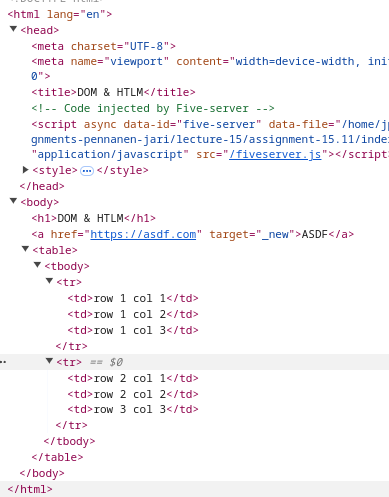
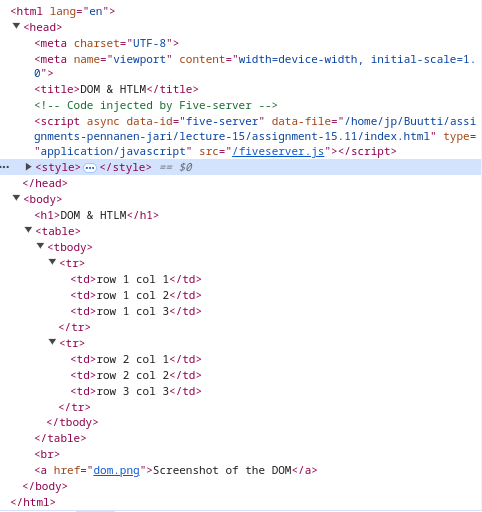
Refine assignment 15.11

Changed region(s): [[0.0, 0.0, 1.0, 1.0]]

diff --git a/lecture-15/assignment-15.11/index.html b/lecture-15/assignment-15.11/index.html
@@ -3,7 +3,6 @@ Create a new HTML page that corresponds to the attached DOM image.
 Add a table to your page with three columns and two rows in it. 
 Then update the DOM tree model to reflect the updated page. (Draw it with a pen to a paper.) 
 -->
-<!-- NOTE: See the attached screenshot of the DOM -->
 <!DOCTYPE html>
 <html lang="en">
 <head>
@@ -13,7 +12,6 @@ Then update the DOM tree model to reflect the updated page. (Draw it with a pen 
 </head>
 <body>
   <h1>DOM & HTLM</h1>
-  <a href="https://asdf.com" target="_new">ASDF</a>
   <table>
     <tr>
       <td>row 1 col 1</td>
@@ -26,5 +24,6 @@ Then update the DOM tree model to reflect the updated page. (Draw it with a pen 
       <td>row 3 col 3</td>
     </tr>
   </table>
+  <br><a href="dom.png">Screenshot of the DOM</a>
 </body>
 </html>
